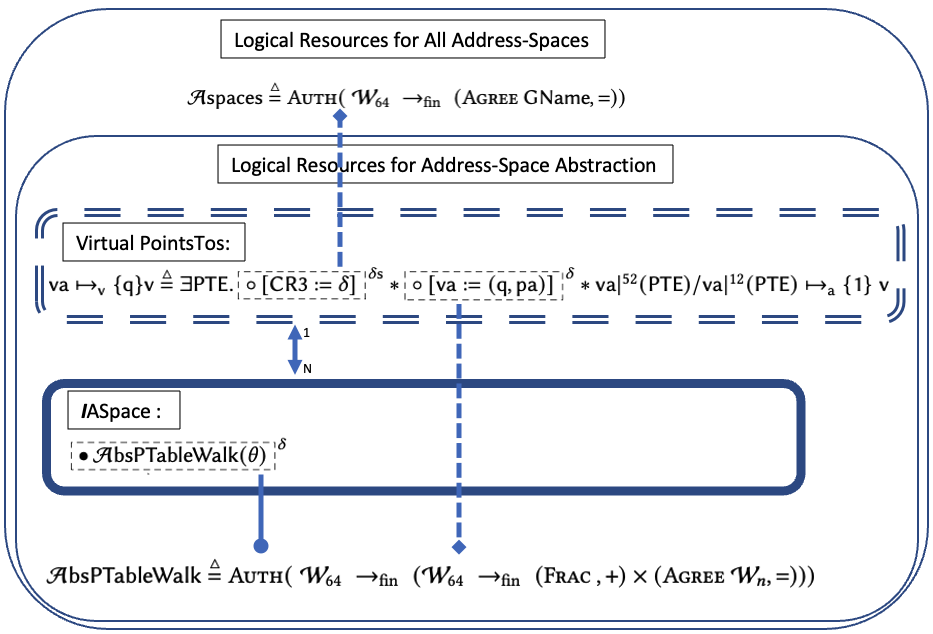
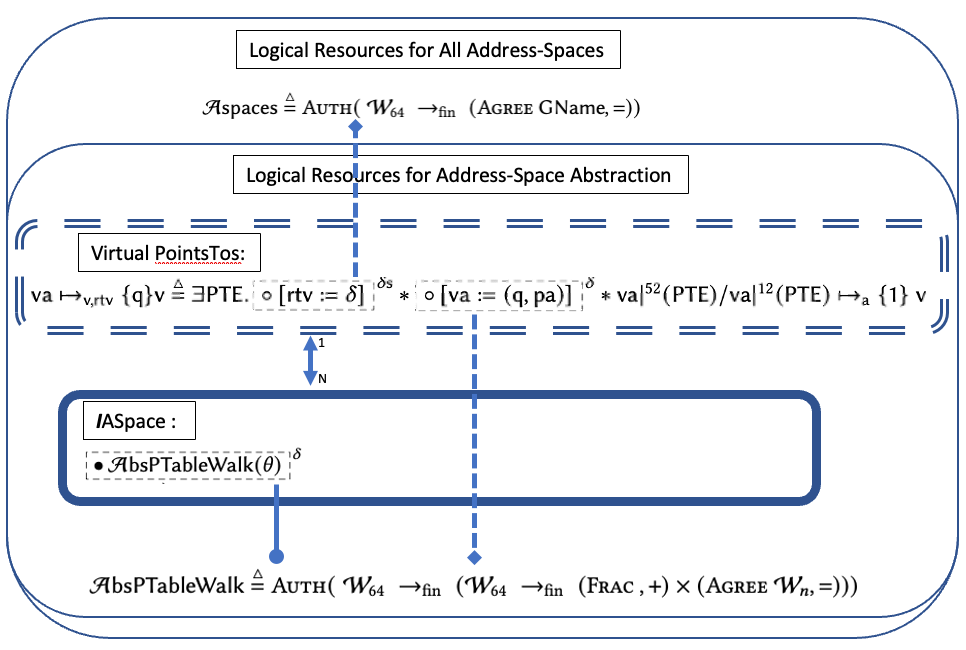
+

Changed region(s): [[0.0, 0.0, 1.0, 1.0]]

diff --git a/programlogic.tex b/programlogic.tex
@@ -3,6 +3,7 @@
 % The predicate gen_heap_interp.
 \newcommand{\gammaPred}{\delta}
 \newcommand{\gammaPreds}{\delta\textsf{s}}
+\newcommand{\rtv}{\textsf{rtv}}
 
 \newcommand{\sumwalkabs}[3]{
   \ownGhost\gammaPred{\authfrag{\singletonMap{#1}{(#2, #3)}}}
@@ -144,9 +145,9 @@ address space invariants.
 \begin{figure*}
 \[
 \begin{array}{l}
-    \vaddr\mapsto_{\textsf{v}}\{\textsf{q}\}\vpage \stackrel{\triangle}{=} 
+    \vaddr\mapsto_{\textsf{v,rtv}}\{\textsf{q}\}\vpage \stackrel{\triangle}{=} 
     \exists \entryo \ldotp
-    \sumapaces\crthree\delta \ast 
+    \sumapaces\rtv\delta \ast 
   \sumwalkabs\vaddr\qfrac\paddr \ast 
    \nfpointsto{\mask\vaddr\ft\entryo}{\mask\vaddr\tw\entryo}\vpage\qfracone\naddr
 \end{array}
@@ -175,13 +176,13 @@ Relations amongst these logical constructions, for the sake making it clearly un
 So far, we have introduced logical abstractions for a single address space. However, \textsf{VMM} implementations handle more than one address-space which we abstract as a ghost map from root address of an address-space to a namespace labelling the address space
 \[\mathcal{A}\textsf{spaces} \stackrel{\triangle}{=} \textsc{Auth} (\; \mathcal{W}_{64} \;\rightarrow_{\textrm{fin}} \; (\textsc{Agree } \mathsf{GName},\mathord{=}) ) \]
 
-\paragraph{Valid Context-Resources} Fragmental ownership of $\mathcal{A}\textsf{spaces}$ ($\sumapaces\crthree\gammaPred$) conveys the fact that a current address-space ($\gammaPred$) is the one selected, i.e. loaded into the $\crthree$. This simple fact becomes essential when we observe it inside virtual-pointsto definition in Figure \ref{fig:virtualpointstosharing} and pictorially Figure \ref{logicaladdrspace}. Existence of this fragmental ownership ensures that the contextual resource, i.e. a virtual pointsto assertion, resides under the correct address-space, i.e. modal-context, that makes it valid.
+\paragraph{Valid Context-Resources} Fragmental ownership of $\mathcal{A}\textsf{spaces}$ ($\sumapaces\rtv\gammaPred$) conveys the fact that a current address-space ($\gammaPred$) is the one selected, i.e. loaded into the $\rtv$. This simple fact becomes essential when we observe it inside virtual-pointsto definition in Figure \ref{fig:virtualpointstosharing} and pictorially Figure \ref{logicaladdrspace}. Existence of this fragmental ownership ensures that the contextual resource, i.e. a virtual pointsto assertion, resides under the correct address-space, i.e. modal-context, that makes it valid.
 
 \paragraph{Modal Resource Context\&Interaction with Ambient Logic \textsf{vProp}}
 \label{sec:resourcecontext}
 The relation between the address-space and and the validity of virtual-pointsto assertions exhibits itself as a contingency, i.e. \textit{"a certain virtual-pointsto facts whose validity is indexed by the root address of an address space"}. But, what sort of convenience this pattern provides when we do reasoning about more than one address-space.
 
-In Figure \ref{fig:addrswitch}, we see two different address-spaces rooted at R0 and R1 in the pre/post condition. To be put into words, while switching an address-space by executing \lstinline|mov_ctl|) updating the $\crthree$, it is expected to mention resources of two different address-spaces in the specification. In the precondition, $\crthree$ is loaded with R0 and all the virtual-pointsto assertions $a_0 \mapsto_{\textsf{v}}p_0$ and $a_1 \mapsto_{\textsf{v}}p_1$ are in the current-view of the memory and valid in the ambient logic \textsf{vProp}. The other address-space with the root address R1 has its own resources ($b_0 \mapsto_{\textsf{v}}p_3$ and $b_1 \mapsto_{\textsf{v}}p_4$) which are invalid under the current address space rooted at R0. This pattern of specification requires resources being mentioned under the \textit{world} they are valid, i.e. a modal-framing within the specification. Once the current address-space becomes the one with root address R1, i.e. $\crthree$ is loaded with R1, the context-resources $b_0 \mapsto_{\textsf{v}}p_3$ and $b_1 \mapsto_{\textsf{v}}p_4$ are loaded into the current-view of the memory, and all the other resources that are valid under R0 are introduced into the modal context rooted at R0
+In Figure \ref{fig:addrswitch}, we see two different address-spaces rooted at R0 and R1 in the pre/post condition. To be put into words, while switching an address-space by executing \lstinline|mov_ctl|) updating the  \lstinline|cr3|, it is expected to mention resources of two different address-spaces in the specification. In the precondition,  \lstinline|cr3| is loaded with R0 and all the virtual-pointsto assertions $a_0 \mapsto_{\textsf{v}}p_0$ and $a_1 \mapsto_{\textsf{v}}p_1$ are in the current-view of the memory and valid in the ambient logic \textsf{vProp}. The other address-space with the root address R1 has its own resources ($b_0 \mapsto_{\textsf{v}}p_3$ and $b_1 \mapsto_{\textsf{v}}p_4$) which are invalid under the current address space rooted at R0. This pattern of specification requires resources being mentioned under the \textit{world} they are valid, i.e. a modal-framing within the specification. Once the current address-space becomes the one with root address R1, i.e.  \lstinline|cr3| is loaded with R1, the context-resources $b_0 \mapsto_{\textsf{v}}p_3$ and $b_1 \mapsto_{\textsf{v}}p_4$ are loaded into the current-view of the memory, and all the other resources that are valid under R0 are introduced into the modal context rooted at R0
 \begin{figure}
 
 \[
@@ -196,10 +197,10 @@ In Figure \ref{fig:addrswitch}, we see two different address-spaces rooted at R0
 \begin{figure}
 \[
 \begin{array}{l}
-  \{ \crthree \mapsto_{r} R0 \ast a_0 \mapsto_{\textsf{v}}p_0  \ast a_1 \mapsto_{\textsf{v}}p_1  \ast [r1]\;( b_0 \mapsto_{\textsf{v}}p_3  \ast b_1 \mapsto_{\textsf{v}}p_4 )\}\\
-  \qquad \qquad \qquad \qquad\qquad \qquad \mathsf{mov\_ctl} \;\; \crthree \; \; R1\\
+  \{ \textsf{cr3 } \mapsto_{r} R0 \ast a_0 \mapsto_{\textsf{v}}p_0  \ast a_1 \mapsto_{\textsf{v}}p_1  \ast [r1]\;( b_0 \mapsto_{\textsf{v}}p_3  \ast b_1 \mapsto_{\textsf{v}}p_4 )\}\\
+  \qquad \qquad \qquad \qquad \qquad \mathsf{mov\_ctl} \;\; \texttt{cr3} \; \; R1\\
 
-  \{ \crthree \mapsto_{r} R1 \ast [r0](a_0 \mapsto_{\textsf{v}}p_0  \ast a_1 \mapsto_{\textsf{v}}p_1)  \ast  b_0 \mapsto_{\textsf{v}}p_3  \ast b_1 \mapsto_{\textsf{v}}p_4 \}
+  \{ \textsf{cr3 } \mapsto_{r} R1 \ast [r0](a_0 \mapsto_{\textsf{v}}p_0  \ast a_1 \mapsto_{\textsf{v}}p_1)  \ast  b_0 \mapsto_{\textsf{v}}p_3  \ast b_1 \mapsto_{\textsf{v}}p_4 \}
   \end{array}
 \]
   \label{fig:addrswitch}
@@ -226,23 +227,23 @@ Pragmatically,
 An important subtlety arises with supporting \lstinline|mov|s into \lstinline|%cr3|. Consider the hypothetical rule:
 \begin{mathpar}
 \inferrule[Broken]{ }{
-  \{P \ast cr3\mapsto_{r} \;r_1 \ast r \mapsto_{r} \;r_2 \ast [r_2](Q)\}
+  \{P \ast \textsf{cr3}\mapsto_{r} \;r_1 \ast r \mapsto_{r} \;r_2 \ast [r_2](Q)\}
   \texttt{mov}~\texttt{\%cr3},~r%\lstinline|mov %cr3, r| 
-  \{[r_1](P) \ast cr3 \mapsto_{r} r_2 \ast r \mapsto_{r} r_2 \ast Q\}
+  \{[r_1](P) \ast \textsf{cr3} \mapsto_{r} r_2 \ast r \mapsto_{r} r_2 \ast Q\}
 }
 \end{mathpar}
 This rule captures the intuitive change of address space in a Hoare triple, rather than double, form. The problem with this is that it interacts quite poorly with the traditional frame rule and the modal flavor of virtual points-to assertions:
 \begin{mathpar}
   \inferrule*[right=Frame]{
     \inferrule*[right=Broken]{ }{
-    \{\mathsf{emp} \ast cr3 \mapsto_{r} r_1 \ast r\mapsto_{r} r_2 \ast [r_2](Q)\}
+    \{\mathsf{emp} \ast \textsf{cr3} \mapsto_{r} r_1 \ast r\mapsto_{r} r_2 \ast [r_2](Q)\}
     \texttt{mov}~\texttt{\%cr3},~r%\lstinline|mov %cr3, r| 
-    \{[r_1](\mathsf{emp}) \ast cr3 \mapsto_{r} r_1 \ast r \mapsto_{r} r_2 \ast Q\}
+    \{[r_1](\mathsf{emp}) \ast \textsf{cr3} \mapsto_{r} r_1 \ast r \mapsto_{r} r_2 \ast Q\}
     }
   }{
-    \{a\mapsto_\mathsf{v} x \ast \mathsf{emp} \ast cr3\mapsto_{r}r_1 \ast r \mapsto_{r}r_2 \ast [r_2](Q)\}
+    \{a\mapsto_\mathsf{v} x \ast \mathsf{emp} \ast \textsf{cr3}\mapsto_{r}r_1 \ast r \mapsto_{r}r_2 \ast [r_2](Q)\}
     \texttt{mov}~\texttt{\%cr3},~r%\lstinline|mov %cr3, r| 
-    \{a\mapsto_\mathsf{v} x \ast [r_1](\mathsf{emp}) \ast cr3 \mapsto_{r} r_1 \ast r \mapsto_{r} r_2 \ast Q\}
+    \{a\mapsto_\mathsf{v} x \ast [r_1](\mathsf{emp}) \ast \textsf{cr3} \mapsto_{r} r_1 \ast r \mapsto_{r} r_2 \ast Q\}
   }
 \end{mathpar}
 Notice that both the precondition and postcondition assert that $a\mapsto_\mathsf{v} x$ in the current address space, but we have no basis for concluding that address translation is preserved by the change of address space. So this derivation clearly leads to an unsound conclusion. This suggestss that the traditional frame rule and the Hoare triple presentation of the change-of-address-space rule cannot soundly coexist in the same system.
@@ -275,18 +276,25 @@ By demanding that \lstinline|cr3| be held constant (or rather, at least restored
 Readers familiar with dynamic frames~\cite{parkinson2011relationship} might find it useful to notice that a different perspective on this matter is that virtual points-to assertions are self-stable \emph{except} for changes in \lstinline|cr3|, so framing would then naturally require other means of holding \lstinline|cr3| constant (or saving and restoring it).
 Virtual points-to assertions could be made self-stable by also giving them partial ownership over \lstinline|cr3| assertions, but this would require explicitly plumbing that ownership from \emph{all} assertions back to any place an address space change might occur; this would seem to be a far graver loss of modularity than this extra quirk in framing discussions.
 \subsubsection{Defining Hoare Doubles for Address-Space Specification}
-Based on the issues we discuss in Section \ref{sec:issues}, and the design of the abstractions for \textsf{vProp} logic, e.g. virtual-pointsto assertion and the modal address-space abstraction, we give the unfolded Hoare-double definition in Figure \ref{fig:wpddefinition}. 
-\begin{figure}
+Based on the issues we discuss in Section \ref{sec:issues}, we make sure our Hoare-Double definition in Figure \ref{fig:wpddefinition} enables
+\begin{itemize}
+\item virtual-pointsto relations to be independent of \lstinline{cr3} ownership
+\item and full-ownership of \lstinline to be propagated inside the \textsf{wpd\_def} in order to
+\end{itemize}
+This act of separation allows client-specification to be agnostic of \lstinline|cr3| physical resource, (i.e. \lstinline|cr3| $\mapsto_{\textsf{r}} \rtv$). The context-resource (virtual-pointsto) has only the \textit{knowledge} of being in a namespace in which it is valid ($\sumapaces\rtv\gammaPred$), nothing more.
+
+In the rest of this, we explain how specifications of some selected \textsf{AMD64} instructions look like under the decisions made on the reasoning principles.
+\begin{figure} 
   \[
   \begin{array}{l}
-    \textsf{wpd\_def e s E1 } \Phi \;\mathsf{ rootaddr } : \textsf{iProp }\Sigma := \\
-   \qquad ((\textsf{cr cr3}) \mapsto_{\textsf{r}} (\textsf{num rootaddr)}) \textsf{rootaddr}) \ast (\Phi \textsf{ rootaddr}) \wand \textsf{WP e E } @ \textsf{s ; E1} \{\{\_, \textsf{True} \}\}
+    \textsf{wpd\_def e s E1 } \Phi \;\mathsf{ cr3val } : \textsf{iProp }\Sigma := \\
+   \qquad ((\textsf{cr cr3}) \mapsto_{\textsf{r}} (\textsf{num cr3val)}) \textsf{ cr3val}) \ast (\Phi \textsf{ cr3val}) \wand \textsf{WP e E } @ \textsf{s ; E1 } \{\{\_, \textsf{True} \}\}
     \end{array}
   \]
 \caption{Unfolded Hoare-Double Definition for \textsf{vProp} Logic }
 \label{fig:wpddefinition}
 \end{figure}
-This definition carries only the facts ($\Phi$) that are valid under the current addresss-space -- $\Phi \; \textsf{rootaddr}$. It also helps to the agnosticism of the client on what the current address-space is by carrying the \textsf{cr3} value on the definition. 
+
 \begin{figure}
 \begin{mathpar}
 \inferrule[WriteToRegFromReg]{
@@ -297,18 +305,32 @@ This definition carries only the facts ($\Phi$) that are valid under the current
   %\lstinline|mov %cr3, r| 
 }
 \\
-\inferrule[WriteToMemFromReg]{
-  \{P \ast r_s \mapsto_{r}\{q\}  \textsf{rvs}  \ast r_a \mapsto_{r} \{q\} \textsf{ vaddr} \ast (\textsf{vaddr} \mapsto_{\textsf{t}} \textsf{v})\;\textsf{cr3val} \}\;\overline{ is}  
+\inferrule[WriteToPhysMemFromReg]{
+  \{P \ast r_s \mapsto_{r}\{q\}  \textsf{rvs}  \ast r_a \mapsto_{r} \{q\} \textsf{ vaddr} \ast \textsf{vaddr} \mapsto_{\textsf{t}} \textsf{v} \}\;\overline{ is}  
 }{
-  \{P \ast r_s \mapsto_{r}\{q\}  \textsf{rvs}   \ast r_a \mapsto_{r}\{q\} \textsf{ vaddr} \ast (\textsf{vaddr} \mapsto_{\textsf{t}} \textsf{rvs})\;\textsf{cr3val} \}
+  \{P \ast r_s \mapsto_{r}\{q\}  \textsf{rvs}   \ast r_a \mapsto_{r}\{q\} \textsf{ vaddr} \ast \textsf{vaddr} \mapsto_{\textsf{t}} \textsf{rvs} \}
   \textsf{ mov}~\textsf{r}_a,~\textsf{r}_s;\;\overline{is}
 }
 \\
-\inferrule[WriteToRegFromMem]{
-  \{P \ast r_d \mapsto_{r}  \textsf{v} \ast r_a \mapsto_{r} \{q\} \textsf{ vaddr} \ast (\textsf{vaddr} \mapsto_{\textsf{t}} \textsf{v})\;\textsf{cr3val} \}\;\overline{is}
+\inferrule[WriteToRegFromPhysMem]{
+  \{P \ast r_d \mapsto_{r}  \textsf{v} \ast r_a \mapsto_{r} \{q\} \textsf{ vaddr} \ast \textsf{vaddr} \mapsto_{\textsf{t}} \textsf{v} \}\;\overline{is}
 }{
-  \{P \ast r_d \mapsto_{r}  \textsf{rvd} \ast r_a \mapsto_{r} \{q\} \textsf{ vaddr} \ast (\textsf{vaddr} \mapsto_{\textsf{t}} \textsf{v})\;\textsf{cr3val} \}
+  \{P \ast r_d \mapsto_{r}  \textsf{rvd} \ast r_a \mapsto_{r} \{q\} \textsf{ vaddr} \ast \textsf{vaddr} \mapsto_{\textsf{t}} \textsf{v} \}
   \textsf{mov}~\textsf{r}_d,~\textsf{r}_a;\;\overline{is}
+}
+\\
+\inferrule[WriteToRegFromVirtMem]{
+  \{P \ast r_d \mapsto_{r}  \textsf{v} \ast r_a \mapsto_{r} \{q\} \textsf{ vaddr} \ast \textsf{vaddr} \mapsto_{\textsf{v,rtv}} \textsf{v} \}\;\overline{is}
+}{
+  \{P \ast r_d \mapsto_{r}  \textsf{rvd} \ast r_a \mapsto_{r} \{q\} \textsf{ vaddr} \ast \textsf{vaddr} \mapsto_{\textsf{v,rtv}} \textsf{v} \}
+  \textsf{mov}~\textsf{r}_d,~\textsf{r}_a;\;\overline{is}
+}
+\\
+\inferrule[WriteToVirtMemFromReg]{
+  \{P \ast r_s \mapsto_{r}\{q\}  \textsf{rvs}  \ast r_a \mapsto_{r} \{q\} \textsf{ vaddr} \ast \textsf{vaddr} \mapsto_{\textsf{v,rtv}} \textsf{v} \}\;\overline{ is}  
+}{
+  \{P \ast r_s \mapsto_{r}\{q\}  \textsf{rvs}   \ast r_a \mapsto_{r}\{q\} \textsf{ vaddr} \ast \textsf{vaddr} \mapsto_{\textsf{v,rtv}} \textsf{rvs} \}
+  \textsf{ mov}~\textsf{r}_a,~\textsf{r}_s;\;\overline{is}
 }
 \\
 \inferrule[WriteToRegCtlFromReg]{
@@ -317,12 +339,24 @@ This definition carries only the facts ($\Phi$) that are valid under the current
   \{P \ast r_s \mapsto_{r}\{q\}  \textsf{ rvs}   \}
   \textsf{mov}~\textsf{cr3},~r_s;\;\overline{is}
   %\lstinline|mov %cr3, r| 
+}\\
+\inferrule[WriteToRegFromRegCtl]{
+  \{P \ast r_d \mapsto_{r} \textsf{rvs} \ast r_s \mapsto_{r}\{q\} \textsf{ rvs} \}\;\overline{ is}
+}{
+  \{P \ast r_d \mapsto_{r} \textsf{rvd} \ast r_s \mapsto_{r}\{q\} \textsf{ rvs} \}
+  \textsf{ mov}~\textsf{r}_d,~\textsf{r}_s;\;\overline{is}
+  %\lstinline|mov %cr3, r| 
 }
 \end{mathpar}
-\caption{Selected Reasoning Rules for ..}
+\caption{Reasoning Rules for Selected \textsf{AMD64} Instructions}
 \label{fig:wpdamd}
 \end{figure}
-\todo[inline,color=red]{STOP HERE}
 \subsubsection{Register To Memory}
+\paragraph{Register To Physical Memory}
+\paragraph{Register To Virtual Memory}
 \subsubsection{Memory To Register}
+\paragraph{Physical Memory To Register}
+\paragraph{Virtual Memory To Register}
 \subsubsection{Register To Register}
+\paragraph{Updating \lstinline|cr3|}
+
